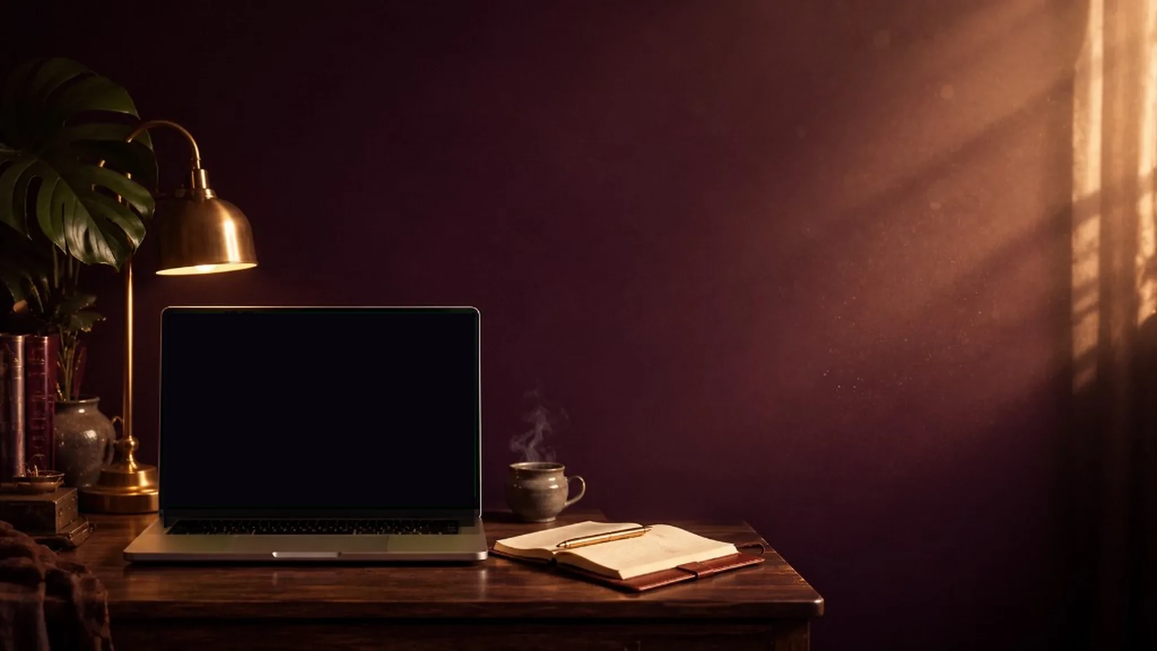
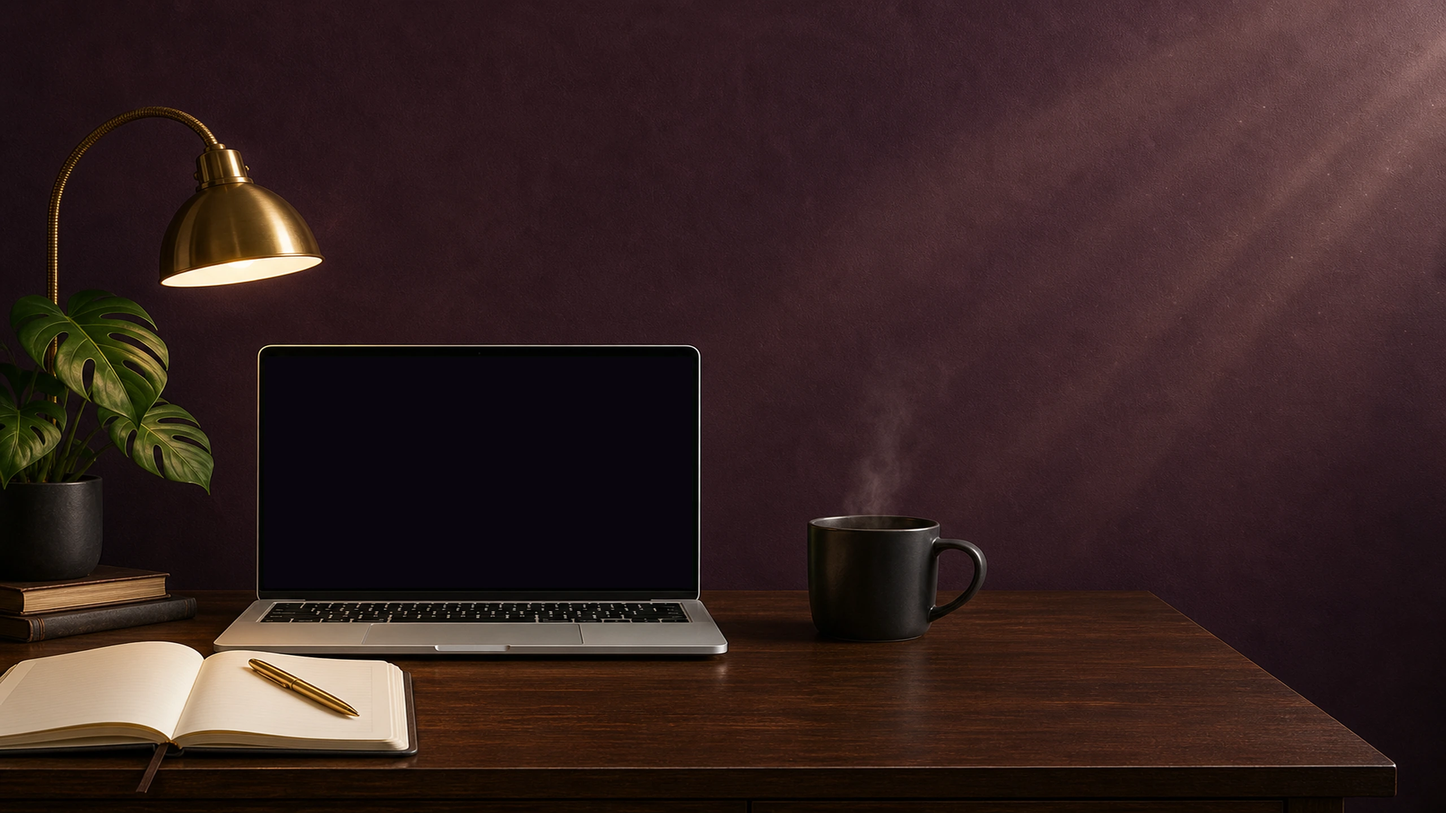
feat(assets): slide chroma frontal HQ + covers de cursos editoriales
Nuevo fondo del ImmersiveStory con laptop frontal (placa keyed desde
chroma), bbox recalibrado, y tres covers quiet-luxury para /cursos
sin reutilizar ilustraciones Pixar.

diff --git a/web/app/globals.css b/web/app/globals.css
@@ -440,7 +440,8 @@ h1, h2, h3,
   z-index: 0;
   width: max(100cqw, calc(100cqh * 16 / 9));
   height: max(100cqh, calc(100cqw * 9 / 16));
-  transform: translate(-38%, -50%);
+  /* laptop ya vive a la izquierda en la foto nueva; sesgo leve */
+  transform: translate(-46%, -50%);
 }
 
 /* Foto full-bleed, leve difuminado atmosférico */
@@ -464,21 +465,21 @@ h1, h2, h3,
   pointer-events: none;
 }
 
-/* Pantalla del laptop — bbox exacto del chroma en la foto */
+/* Pantalla del laptop — bbox exacto del chroma (slide frontal 2026-07) */
 .immersive-story__screen {
   position: absolute;
   z-index: 2;
-  left: 14.2%;
-  top: 47.9%;
-  width: 27%;
-  height: 33.3%;
+  left: 18.85%;
+  top: 44.75%;
+  width: 28.4%;
+  height: 26.7%;
   overflow: hidden;
-  border-radius: 2px;
-  background: rgb(10 0 16 / .55);
+  border-radius: 3px;
+  background: rgb(8 5 12 / .96);
   box-shadow:
-    0 0 0 1px rgb(212 175 55 / .2),
-    0 0 48px rgb(212 175 55 / .28),
-    inset 0 0 28px rgb(10 0 16 / .4);
+    0 0 0 1px rgb(212 175 55 / .22),
+    0 0 48px rgb(212 175 55 / .3),
+    inset 0 0 28px rgb(10 0 16 / .45);
 }
 
 .immersive-story__screen-state {

diff --git a/web/app/cursos/page.tsx b/web/app/cursos/page.tsx
@@ -11,17 +11,17 @@ const courses = [
   {
     title: 'Cursos de autoconocimiento',
     text: 'Experiencias cortas para volver a ti sin convertir el bienestar en otra lista de pendientes.',
-    image: '/images/elara-cursos.png',
+    image: '/media/cursos/curso-autoconocimiento.webp',
   },
   {
     title: 'Rituales guiados',
     text: 'Audios, ejercicios y plantillas para acompanar semanas concretas del Ciclo Nova.',
-    image: '/images/elara-meditando.png',
+    image: '/media/cursos/curso-rituales.webp',
   },
   {
     title: 'Herramientas digitales',
     text: 'Recursos descargables para journaling, oraculo, planificacion suave y seguimiento personal.',
-    image: '/images/elara-aprendiendo.png',
+    image: '/media/cursos/curso-herramientas.webp',
   },
 ] as const
 
